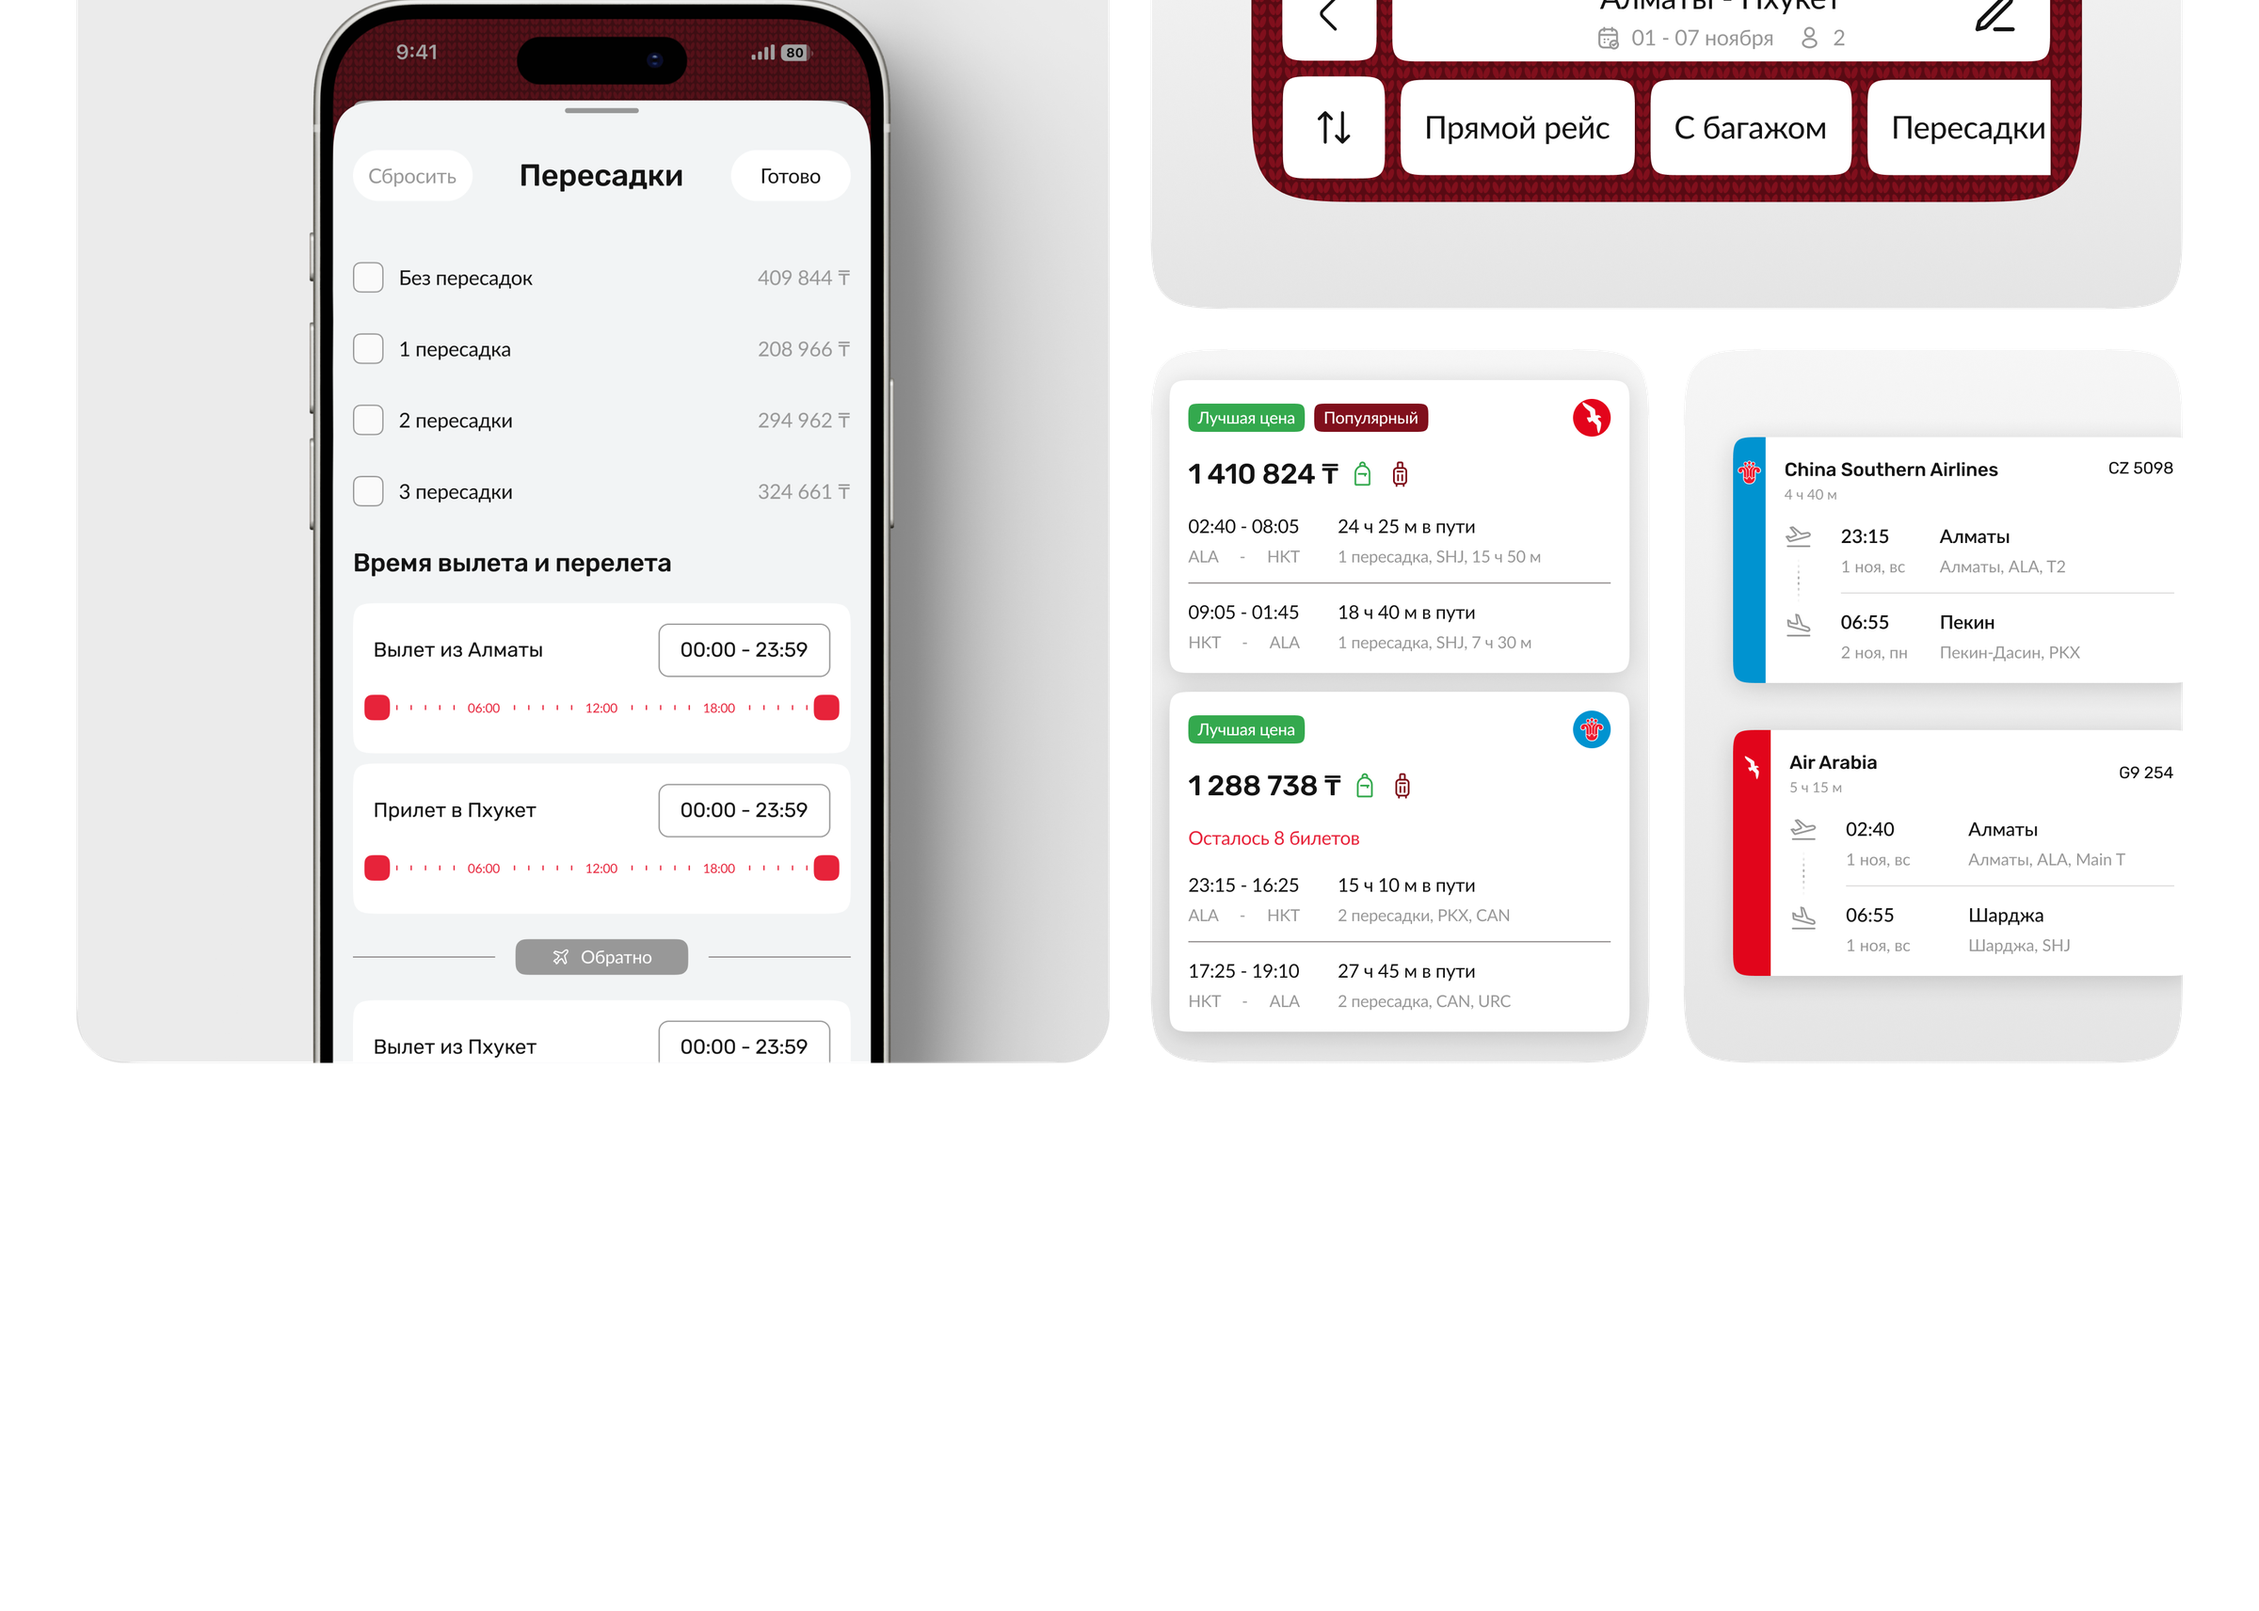
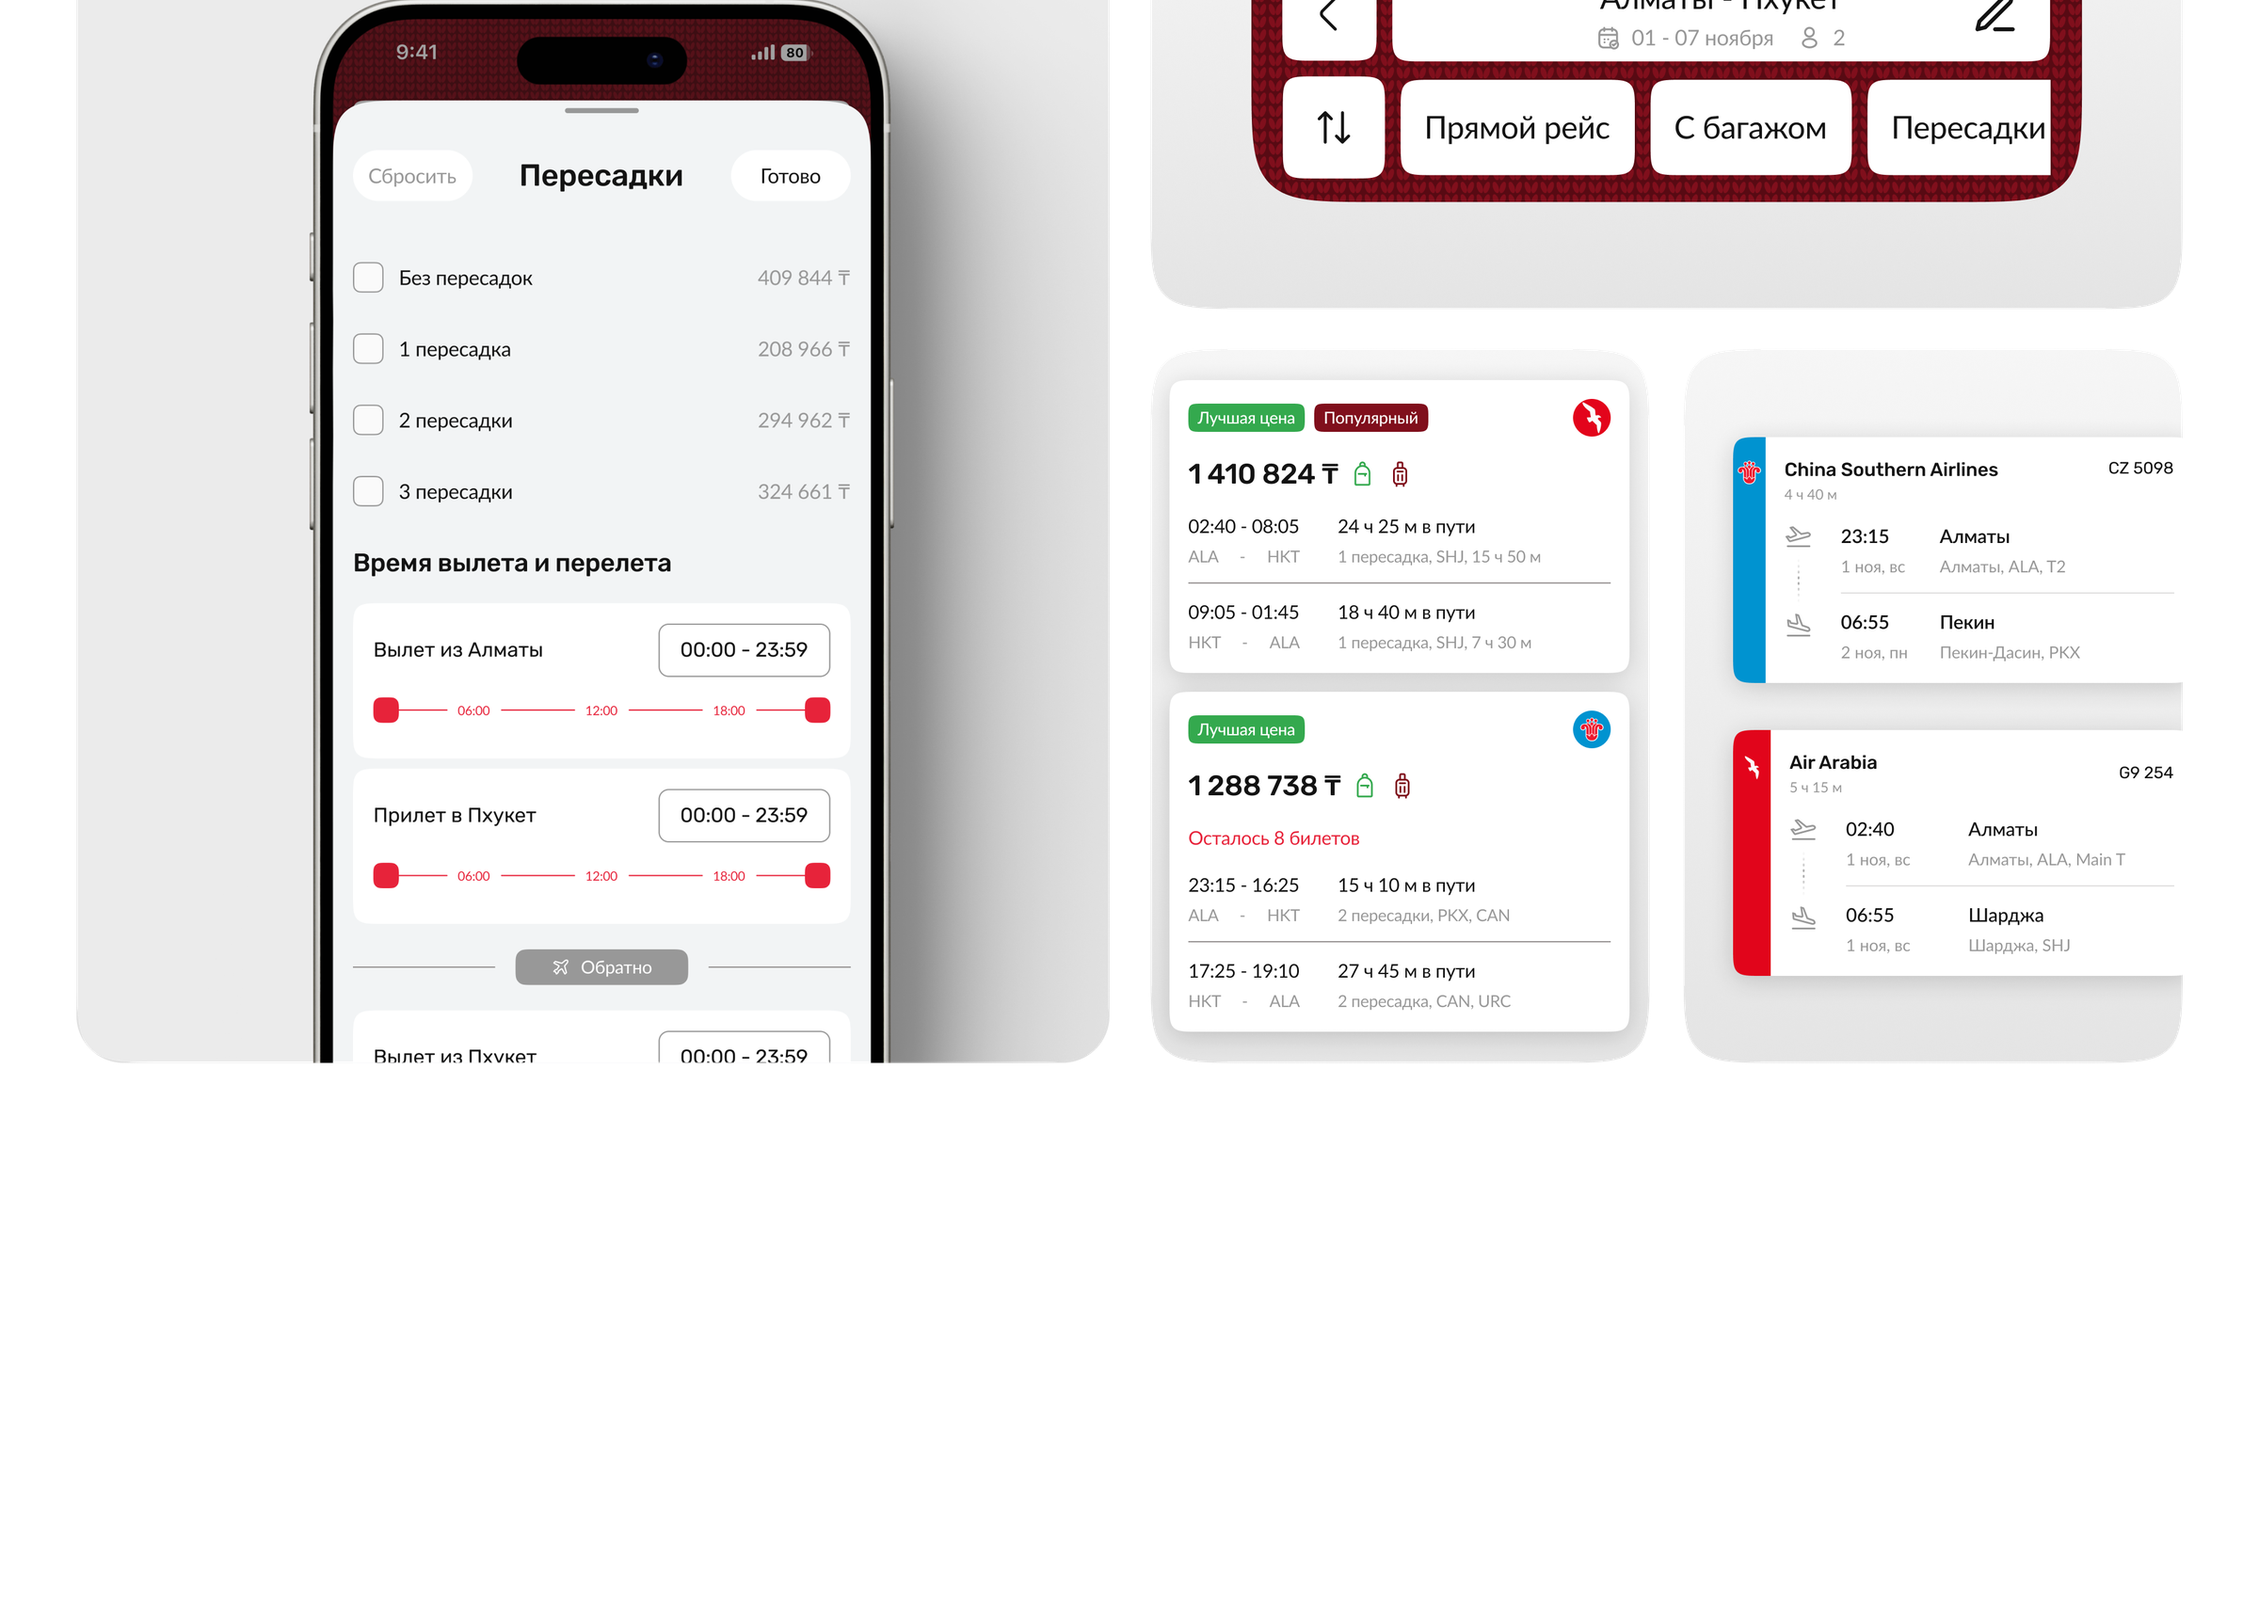
Update time slider component + re-align step animation (not deployed)
Re-export/re-slice bands for the redesigned slider (node 3660-96077:
clean line, rounded handles, 12:00 gray marker). Re-map the step
animation to the new label scale (12:00 at x1515, 20px/hour), shifted
coords, and patch the baked left handle at its new spot. Local only.

diff --git a/projects.js b/projects.js
@@ -257,15 +257,15 @@ window.PROJECTS = {
     // адаптируется под тему (светлая/тёмная), а белый контент (экраны, карточки)
     // остаётся белым.
     blocks: [
-      { bleed: "assets/warm-1.png?v=11" },
-      { bleed: "assets/warm-2.png?v=11" },
-      { bleed: "assets/warm-3.png?v=11" },
-      { bleed: "assets/warm-4.png?v=11" },
-      { bleed: "assets/warm-5.png?v=11" },
-      { bleed: "assets/warm-6.png?v=11" },
-      { bleed: "assets/warm-7.png?v=11" },
-      { bleed: "assets/warm-8.png?v=11" },
-      { bleed: "assets/warm-9.png?v=11" },
+      { bleed: "assets/warm-1.png?v=12" },
+      { bleed: "assets/warm-2.png?v=12" },
+      { bleed: "assets/warm-3.png?v=12" },
+      { bleed: "assets/warm-4.png?v=12" },
+      { bleed: "assets/warm-5.png?v=12" },
+      { bleed: "assets/warm-6.png?v=12" },
+      { bleed: "assets/warm-7.png?v=12" },
+      { bleed: "assets/warm-8.png?v=12" },
+      { bleed: "assets/warm-9.png?v=12" },
     ],
     // Парящие объекты (координаты в системе обрезанного макета 1920×12333)
     floats: {
@@ -312,9 +312,11 @@ window.PROJECTS = {
       slideW: 1920,
       slideH: 12333,
       patchCol: "#ffffff",
-      handle: { x0: 1306, x1: 1515.6, y: 3059, size: 24, r: 7.12, col: "#e7233a" },
+      // Шкала по меткам: 12:00 = x1515 (на сером маркере), 20px/час; x0 — время 0
+      handle: { x0: 1275, x1: 1515, y: 3074, size: 24, r: 7.12, col: "#e7233a" },
+      bakedHandleX: 1314, // запечённый левый ползунок (00:00) — прячем заплаткой
       // Пошагово по делениям: 6:00 → 7:00 → … → 12:00, пауза между шагами ~850мс
-      time: { x: 1600, y: 3003, w: 120, h: 29, size: 19, col: "#131313", suffix: " – 23:59", hours: 12, steps: [6, 7, 8, 9, 10, 11, 12], glide: 420, pause: 850 },
+      time: { x: 1600, y: 3016, w: 120, h: 29, size: 19, col: "#131313", suffix: " – 23:59", hours: 12, steps: [6, 7, 8, 9, 10, 11, 12], glide: 420, pause: 850 },
     },
   },
 

diff --git a/case.js b/case.js
@@ -417,7 +417,7 @@
     var h = s.handle, t = s.time;
     return '<div class="wslider" data-wslider' +
       ' data-slw="' + s.slideW + '" data-slh="' + s.slideH + '"' +
-      ' data-hx0="' + h.x0 + '" data-hx1="' + h.x1 + '" data-hy="' + h.y + '" data-hsize="' + h.size + '" data-hr="' + h.r + '"' +
+      ' data-hx0="' + h.x0 + '" data-hx1="' + h.x1 + '" data-hy="' + h.y + '" data-hsize="' + h.size + '" data-hr="' + h.r + '" data-phx="' + s.bakedHandleX + '"' +
       ' data-tx="' + t.x + '" data-ty="' + t.y + '" data-tw="' + t.w + '" data-th="' + t.h + '" data-tsize="' + t.size + '" data-hours="' + t.hours + '"' +
       ' data-steps="' + t.steps.join(",") + '" data-glide="' + t.glide + '" data-pause="' + t.pause + '"' +
       ' data-suffix="' + t.suffix + '">' +
@@ -1037,7 +1037,7 @@
       var sPatchT = ws.querySelector(".wslider__patch--t");
       var d = ws.dataset;
       var slw = +d.slw, slh = +d.slh;
-      var hx0 = +d.hx0, hx1 = +d.hx1, hy = +d.hy, hsize = +d.hsize, hr = +d.hr;
+      var hx0 = +d.hx0, hx1 = +d.hx1, hy = +d.hy, hsize = +d.hsize, hr = +d.hr, phx = +d.phx;
       var tx = +d.tx, ty = +d.ty, tw = +d.tw, th = +d.th, tsize = +d.tsize, hours = +d.hours;
       var suffix = d.suffix;
       var sg = { k: 0, sL: 0 };
@@ -1053,10 +1053,10 @@
         sHandle.style.height = hsize * k + "px";
         sHandle.style.borderRadius = hr * k + "px";
         sHandle.style.top = hyPx + "px";
-        sPatchH.style.left = sL + (hx0 - 1) * k + "px";
-        sPatchH.style.top = sT + ((hy - 1) / slh) * sH + "px";
-        sPatchH.style.width = (hsize + 2) * k + "px";
-        sPatchH.style.height = (hsize + 2) * k + "px";
+        sPatchH.style.left = sL + (phx - 2) * k + "px";
+        sPatchH.style.top = sT + ((hy - 2) / slh) * sH + "px";
+        sPatchH.style.width = (hsize + 4) * k + "px";
+        sPatchH.style.height = (hsize + 4) * k + "px";
         var tyPx = sT + (ty / slh) * sH;
         sTime.style.left = sL + tx * k + "px";
         sTime.style.top = tyPx + "px";

diff --git a/case.html b/case.html
@@ -46,8 +46,8 @@
   </button>
 
   <script src="https://cdn.jsdelivr.net/npm/lenis@1.1.14/dist/lenis.min.js"></script>
-  <script src="projects.js?v=153"></script>
-  <script src="case.js?v=75"></script>
+  <script src="projects.js?v=154"></script>
+  <script src="case.js?v=76"></script>
   <script src="script.js?v=23"></script>
 </body>
 </html>
